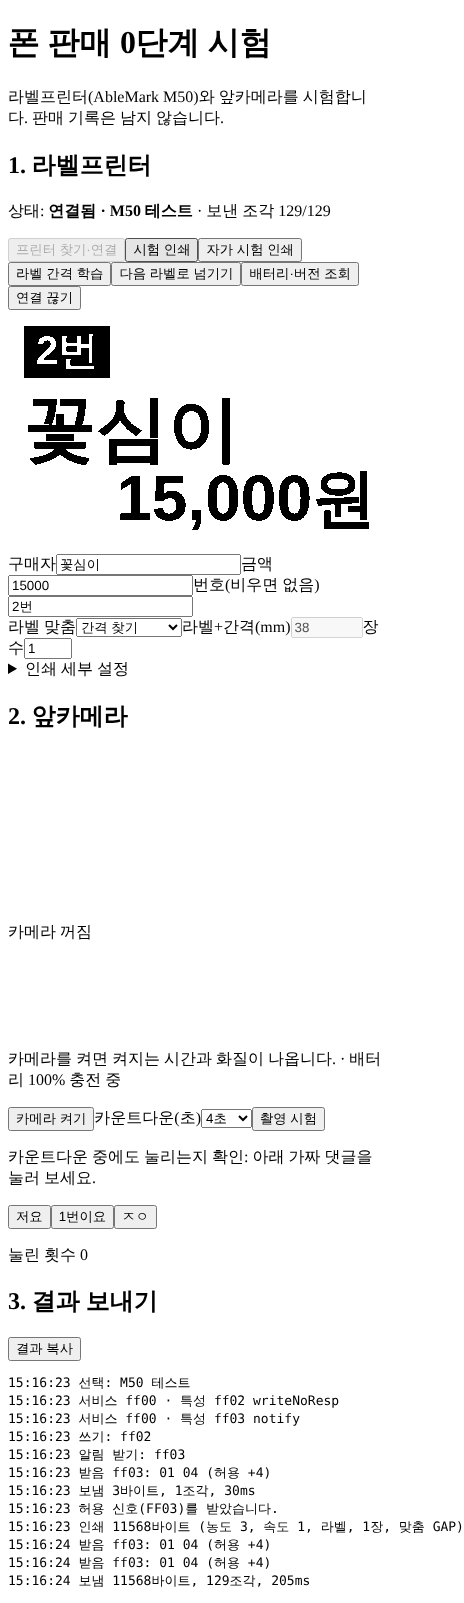
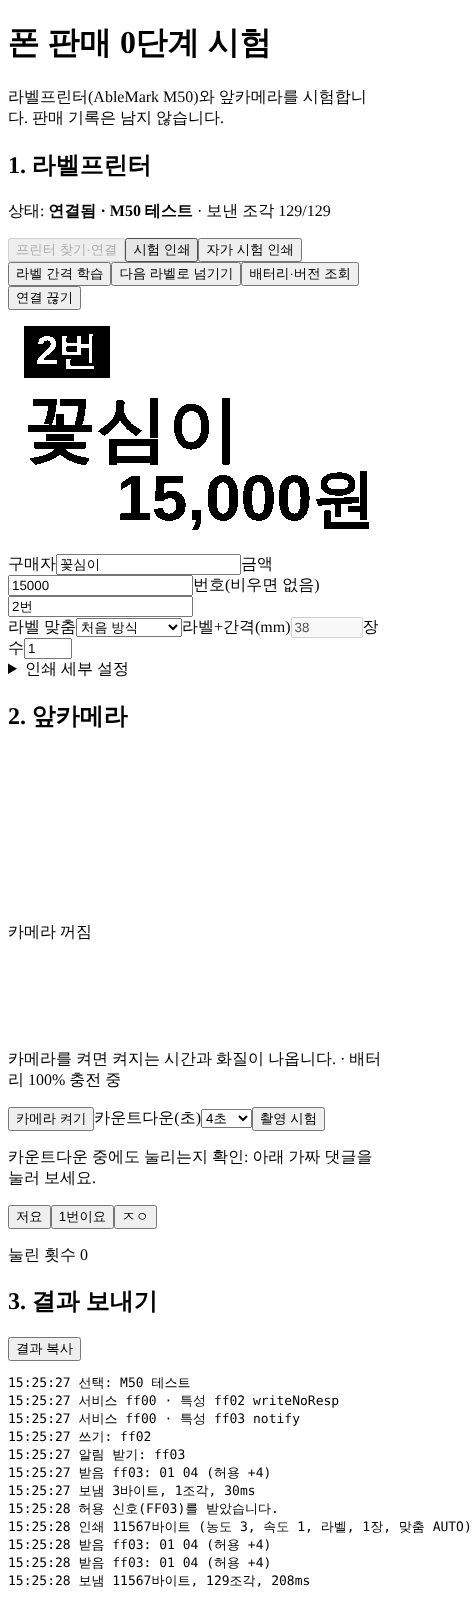
시험 화면: 라벨 맞춤 기본을 처음 방식으로 (학현님 M50 시험 결과)
Claude-Session: https://claude.ai/code/session_012vDSLgpmShEWNsaqVKWTS4

diff --git a/src/pages/test/SellTestPage.tsx b/src/pages/test/SellTestPage.tsx
@@ -50,7 +50,7 @@ const DEFAULTS: Settings = {
   delayMs: 30,
   chunkSize: 90,
   threshold: 160,
-  align: 'GAP',
+  align: 'AUTO',
   pitchMm: 38,
   seconds: 4,
 };
@@ -455,9 +455,9 @@ const SellTestPage: React.FC = () => {
               value={s.align}
               onChange={(e) => set('align', e.target.value as LabelAlign)}
             >
+              <option value="AUTO">처음 방식</option>
               <option value="GAP">간격 찾기</option>
               <option value="FIXED">길이만큼 넘김</option>
-              <option value="AUTO">처음 방식</option>
             </select>
           </Field>
           <Field label="라벨+간격(mm)">

diff --git a/src/services/labelPrinter/marklifeProtocol.ts b/src/services/labelPrinter/marklifeProtocol.ts
@@ -127,9 +127,9 @@ export function bitmapCommand(bitmap: {
 export const DOTS_PER_MM = 8; // 203 dpi
 
 /**
- * How each label ends. AUTO = align start/end commands only; on the M50 (2026-10-29)
- * this printed labels back to back, ignoring the gap. GAP = ask the printer to find
- * the next gap. FIXED = feed the rest of the label pitch (label + gap length).
+ * How each label ends. AUTO = align start/end commands (the M50 default: on
+ * 2026-10-29 it lined up better than GAP once the roll was aligned). GAP = ask the
+ * printer to find the next gap. FIXED = feed the rest of the label pitch.
  */
 export type LabelAlign = 'AUTO' | 'GAP' | 'FIXED';
 
